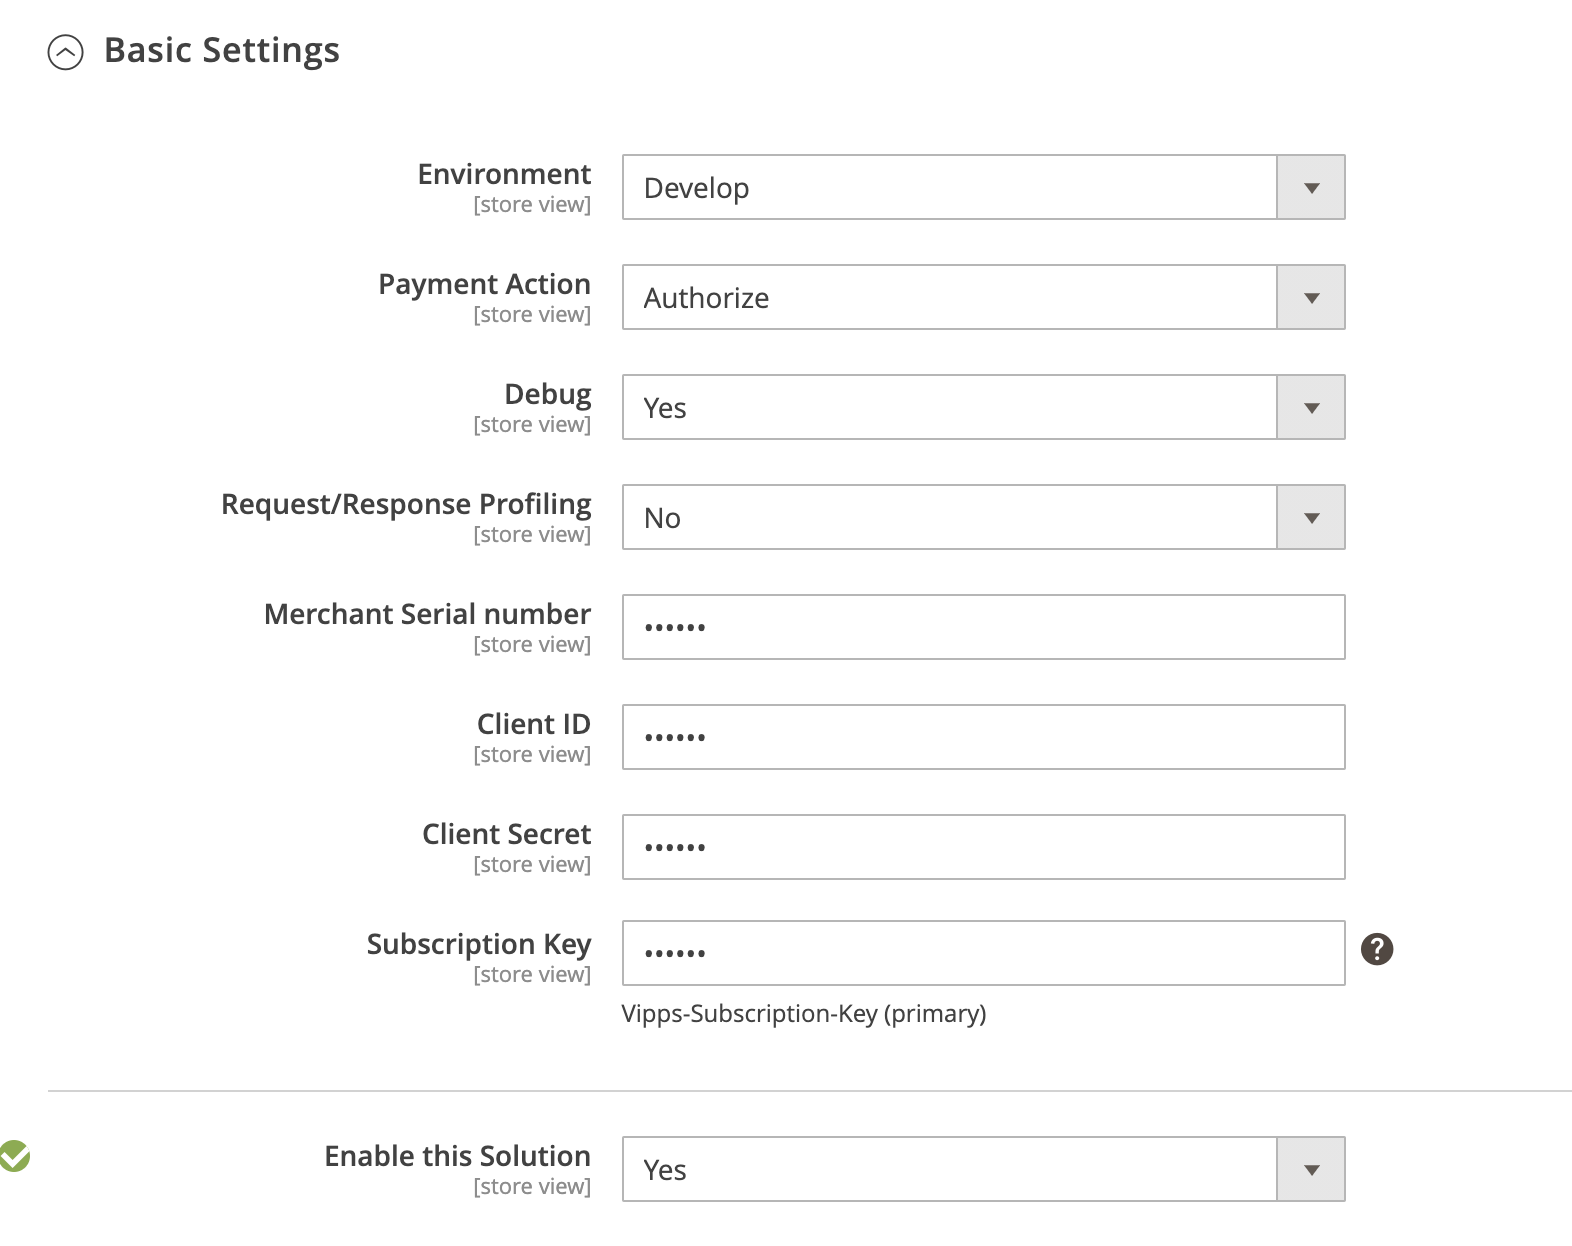
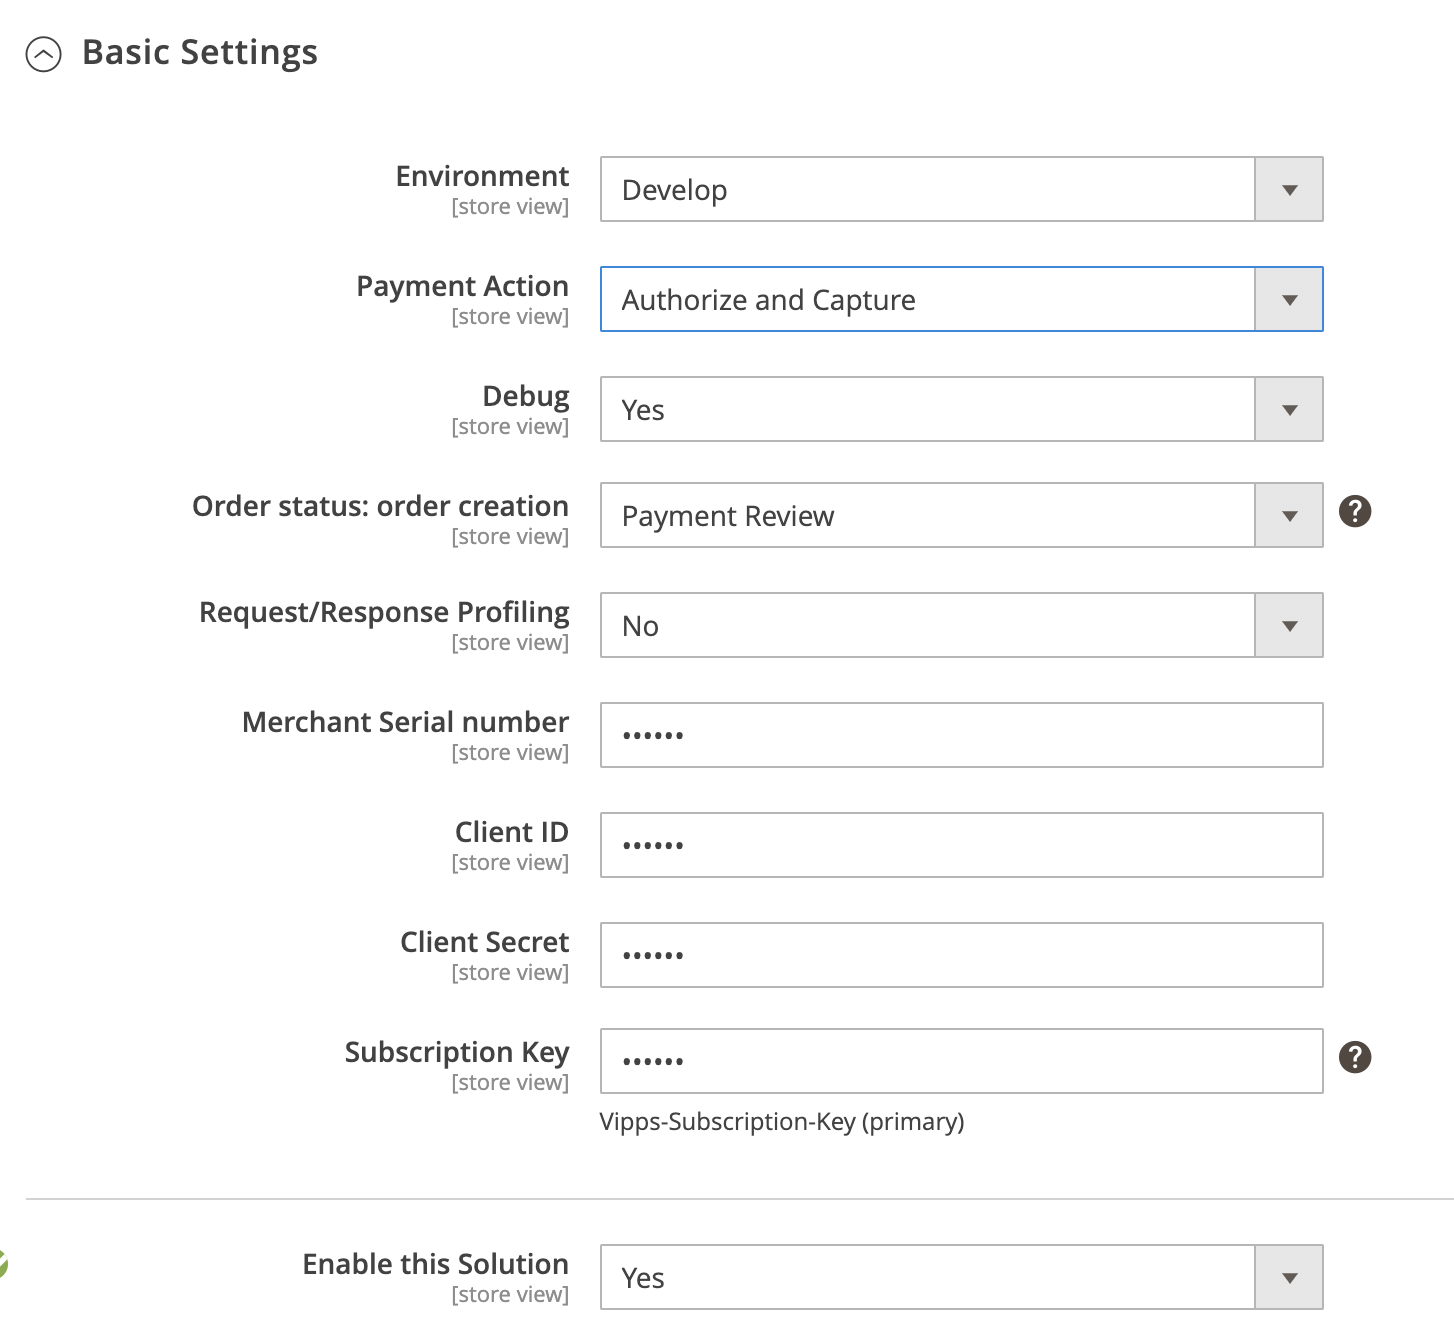
Added Order Status management (#80)
- added order status management settings
- fixed issue with captured transaction on Fallback
- improved currency validation logic
- documentation update

diff --git a/Gateway/Validator/AvailabilityValidator.php b/Gateway/Validator/AvailabilityValidator.php
@@ -1,0 +1,67 @@
+<?php
+/**
+ * Copyright 2020 Vipps
+ *
+ * Permission is hereby granted, free of charge, to any person obtaining a copy of this software and associated
+ * documentation files (the "Software"), to deal in the Software without restriction, including without limitation
+ * the rights to use, copy, modify, merge, publish, distribute, sublicense, and/or sell copies of the Software,
+ * and to permit persons to whom the Software is furnished to do so, subject to the following conditions:
+ *
+ * THE SOFTWARE IS PROVIDED "AS IS", WITHOUT WARRANTY OF ANY KIND, EXPRESS OR IMPLIED, INCLUDING BUT NOT LIMITED
+ * TO THE WARRANTIES OF MERCHANTABILITY, FITNESS FOR A PARTICULAR PURPOSE AND NON INFRINGEMENT. IN NO EVENT SHALL
+ * THE AUTHORS OR COPYRIGHT HOLDERS BE LIABLE FOR ANY CLAIM, DAMAGES OR OTHER LIABILITY, WHETHER IN AN ACTION OF
+ * CONTRACT, TORT OR OTHERWISE, ARISING FROM, OUT OF OR IN CONNECTION WITH THE SOFTWARE OR THE USE OR OTHER DEALINGS
+ * IN THE SOFTWARE.
+ */
+namespace Vipps\Payment\Gateway\Validator;
+
+use Magento\Payment\Gateway\Validator\AbstractValidator;
+use Magento\Payment\Gateway\Validator\ResultInterface;
+use Magento\Framework\Exception\NoSuchEntityException;
+use Magento\Payment\Gateway\Validator\ResultInterfaceFactory;
+use Magento\Store\Model\Store;
+use Magento\Store\Model\StoreManagerInterface;
+
+/**
+ * Class InitiateValidator
+ * @package Vipps\Payment\Gateway\Validator
+ */
+class AvailabilityValidator extends AbstractValidator
+{
+    const NORWEGIAN_CURRENCY = 'NOK';
+
+    /**
+     * @var StoreManagerInterface
+     */
+    private $storeManager;
+
+    /**
+     * CurrencyValidator constructor.
+     *
+     * @param StoreManagerInterface $storeManager
+     */
+    public function __construct(
+        ResultInterfaceFactory $resultFactory,
+        StoreManagerInterface $storeManager
+    ) {
+        parent::__construct($resultFactory);
+        $this->storeManager = $storeManager;
+    }
+
+    /**
+     * @param array $validationSubject
+     *
+     * @return ResultInterface
+     * @throws NoSuchEntityException
+     */
+    public function validate(array $validationSubject)
+    {
+        /** @var Store $store */
+        $store = $this->storeManager->getStore();
+
+        $isValid = self::NORWEGIAN_CURRENCY == $store->getBaseCurrencyCode();
+        $errorMessages = $isValid ? [] : [__('Not allowed currency. Please, contact store administrator.')];
+
+        return $this->createResult($isValid, $errorMessages);
+    }
+}

diff --git a/Observer/OrderPaymentAfter.php b/Observer/OrderPaymentAfter.php
@@ -1,0 +1,73 @@
+<?php
+/**
+ * Copyright 2020 Vipps
+ *
+ * Permission is hereby granted, free of charge, to any person obtaining a copy of this software and associated
+ * documentation files (the "Software"), to deal in the Software without restriction, including without limitation
+ * the rights to use, copy, modify, merge, publish, distribute, sublicense, and/or sell copies of the Software,
+ * and to permit persons to whom the Software is furnished to do so, subject to the following conditions:
+ *
+ * THE SOFTWARE IS PROVIDED "AS IS", WITHOUT WARRANTY OF ANY KIND, EXPRESS OR IMPLIED, INCLUDING BUT NOT LIMITED
+ * TO THE WARRANTIES OF MERCHANTABILITY, FITNESS FOR A PARTICULAR PURPOSE AND NON INFRINGEMENT. IN NO EVENT SHALL
+ * THE AUTHORS OR COPYRIGHT HOLDERS BE LIABLE FOR ANY CLAIM, DAMAGES OR OTHER LIABILITY, WHETHER IN AN ACTION OF
+ * CONTRACT, TORT OR OTHERWISE, ARISING FROM, OUT OF OR IN CONNECTION WITH THE SOFTWARE OR THE USE OR OTHER DEALINGS
+ * IN THE SOFTWARE.
+ */
+
+declare(strict_types=1);
+
+namespace Vipps\Payment\Observer;
+
+use Magento\Framework\Event\Observer;
+use Magento\Framework\Event\ObserverInterface;
+use Magento\Payment\Gateway\ConfigInterface;
+use Magento\Sales\Model\Order;
+use Psr\Log\LoggerInterface;
+use Vipps\Payment\Model\Adminhtml\Source\OrderStatus;
+
+/**
+ * Class OrderPaymentAfter
+ * @package Vipps\Payment\Observer
+ */
+class OrderPaymentAfter implements ObserverInterface
+{
+    /**
+     * @var ConfigInterface
+     */
+    private $config;
+
+    /**
+     * @var LoggerInterface
+     */
+    private $logger;
+
+    /**
+     * OrderPaymentAfter constructor.
+     *
+     * @param ConfigInterface $config
+     * @param LoggerInterface $logger
+     */
+    public function __construct(ConfigInterface $config, LoggerInterface $logger)
+    {
+        $this->config = $config;
+        $this->logger = $logger;
+    }
+
+    /**
+     * @param Observer $observer
+     */
+    public function execute(Observer $observer)
+    {
+        /** @var Order\Payment $payment */
+        $payment = $observer->getPayment();
+        $order = $payment->getOrder();
+
+        $status = $this->config->getValue('order_status');
+        if ($status == OrderStatus::STATUS_PAYMENT_REVIEW) {
+            $order->setState(Order::STATE_PAYMENT_REVIEW);
+            $order->setStatus(Order::STATE_PAYMENT_REVIEW);
+        }
+
+        return;
+    }
+}

diff --git a/Model/Adminhtml/Source/OrderStatus.php b/Model/Adminhtml/Source/OrderStatus.php
@@ -1,0 +1,53 @@
+<?php
+/**
+ * Copyright 2020 Vipps
+ *
+ * Permission is hereby granted, free of charge, to any person obtaining a copy of this software and associated
+ * documentation files (the "Software"), to deal in the Software without restriction, including without limitation
+ * the rights to use, copy, modify, merge, publish, distribute, sublicense, and/or sell copies of the Software,
+ * and to permit persons to whom the Software is furnished to do so, subject to the following conditions:
+ *
+ * THE SOFTWARE IS PROVIDED "AS IS", WITHOUT WARRANTY OF ANY KIND, EXPRESS OR IMPLIED, INCLUDING BUT NOT LIMITED
+ * TO THE WARRANTIES OF MERCHANTABILITY, FITNESS FOR A PARTICULAR PURPOSE AND NON INFRINGEMENT. IN NO EVENT SHALL
+ * THE AUTHORS OR COPYRIGHT HOLDERS BE LIABLE FOR ANY CLAIM, DAMAGES OR OTHER LIABILITY, WHETHER IN AN ACTION OF
+ * CONTRACT, TORT OR OTHERWISE, ARISING FROM, OUT OF OR IN CONNECTION WITH THE SOFTWARE OR THE USE OR OTHER DEALINGS
+ * IN THE SOFTWARE.
+ */
+namespace Vipps\Payment\Model\Adminhtml\Source;
+
+use Magento\Framework\Data\OptionSourceInterface;
+
+/**
+ * Class PaymentAction
+ */
+class OrderStatus implements OptionSourceInterface
+{
+    /**
+     * @var string
+     */
+    const STATUS_PAYMENT_REVIEW = 'payment_review';
+
+    /**
+     * @var string
+     */
+    const STATUS_PENDING = 'pending';
+
+    /**
+     * Possible actions on order place
+     *
+     * @return array
+     */
+    public function toOptionArray()
+    {
+        return [
+            [
+                'value' => self::STATUS_PAYMENT_REVIEW,
+                'label' => __('Payment Review'),
+            ],
+            [
+                'value' => self::STATUS_PENDING,
+                'label' => __('Pending'),
+            ]
+        ];
+    }
+}

diff --git a/Model/TransactionProcessor.php b/Model/TransactionProcessor.php
@@ -405,7 +405,7 @@ class TransactionProcessor
      */
     private function capture(OrderInterface $order)
     {
-        if ($order->getState() !== Order::STATE_NEW) {
+        if (!in_array($order->getState(), [Order::STATE_NEW, Order::STATE_PAYMENT_REVIEW])) {
             return;
         }
 
@@ -431,7 +431,7 @@ class TransactionProcessor
      */
     private function authorize(OrderInterface $order, Transaction $transaction)
     {
-        if ($order->getState() !== Order::STATE_NEW) {
+        if (!in_array($order->getState(), [Order::STATE_NEW, Order::STATE_PAYMENT_REVIEW])) {
             return;
         }
 

diff --git a/Controller/Payment/Fallback.php b/Controller/Payment/Fallback.php
@@ -262,7 +262,7 @@ class Fallback implements ActionInterface, CsrfAwareActionInterface
     {
         if ($transaction->transactionWasCancelled()) {
             $this->messageManager->addWarningMessage(__('Your order was cancelled in Vipps.'));
-        } elseif ($transaction->isTransactionReserved()) {
+        } elseif ($transaction->isTransactionReserved() || $transaction->isTransactionCaptured()) {
             return $resultRedirect->setPath('checkout/onepage/success', ['_secure' => true]);
         } elseif ($transaction->isTransactionExpired()) {
             $this->messageManager->addErrorMessage(

diff --git a/Gateway/Transaction/Transaction.php b/Gateway/Transaction/Transaction.php
@@ -271,6 +271,19 @@ class Transaction
 
     /**
      * @return bool
+     */
+    public function isTransactionCaptured(): bool
+    {
+        $item = $this->transactionLogHistory->getLastSuccessItem();
+        if ($item && $item->getOperation() == self::TRANSACTION_OPERATION_CAPTURE) {
+            return true;
+        }
+
+        return false;
+    }
+
+    /**
+     * @return bool
      * @throws \Exception
      */
     public function isTransactionExpired(): bool

diff --git a/DOCUMENTATION.md b/DOCUMENTATION.md
@@ -65,8 +65,6 @@ If you have experienced any issue with Vipps try to enable `Request Profiling` a
 
 `Stores -> Configuration -> Sales -> Payment Methods -> Vipps`
 
-![Screenshot of Vipps Configuration Area](docs/images/vipps_basic.png) 
-
 After that, all information related to vipps payment module will be stored into two files `{project_root}/var/log/vipps_exception.log` or `{project_root}/var/log/vipps_debug.log`.
 
 Requests Profiling is a page in Magento admin panel that helps you to track a communication between Vipps and Magento.
@@ -99,6 +97,7 @@ For information about how to find the above values, see the [Vipps Developer Por
 
 **Environment**  - Vipps API mode. Can be *production/develop*.  
 **Payment Action** - *Authorize*(process authorization transaction; funds are blocked on customer account, but not withdrawn) or *Capture* (withdraw previously authorized amount).  
+**Order Status** - default order status before redirecting back to Magento. Can be *Pending* or *Payment Review*.  
 **Debug** - log all actions with Vipps Payment module into `{project_root}/var/log/vipps_debug.log` file *(not recommended in production mode)*.  
 **Request/Response Profiling** - log all requests/responses to Vipps API into `vipps_profiling` table.
 

diff --git a/INSTALL.md b/INSTALL.md
@@ -69,6 +69,7 @@ For information about how to find the above values, see the [Vipps Developer Por
 
 **Environment**  - Vipps API mode. Can be *production/develop*.  
 **Payment Action** - *Authorize*(process authorization transaction; funds are blocked on customer account, but not withdrawn) or *Capture* (withdraw previously authorized amount).  
+**Order Status** - default order status before redirecting back to Magento. Can be *Pending* or *Payment Review*.  
 **Debug** - log all actions with Vipps Payment module into `{project_root}/var/log/vipps_debug.log` file *(not recommended in production mode)*.  
 **Request/Response Profiling** - log all requests/responses to Vipps API into `vipps_profiling` table.
 
